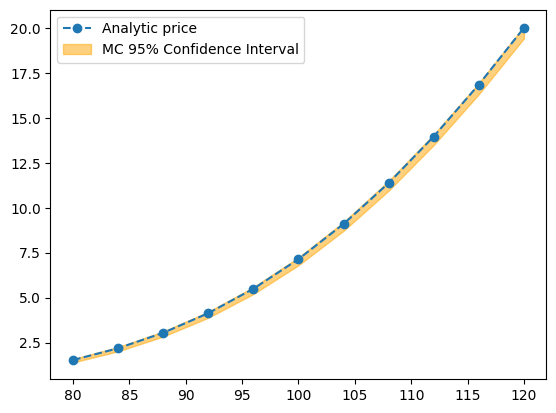
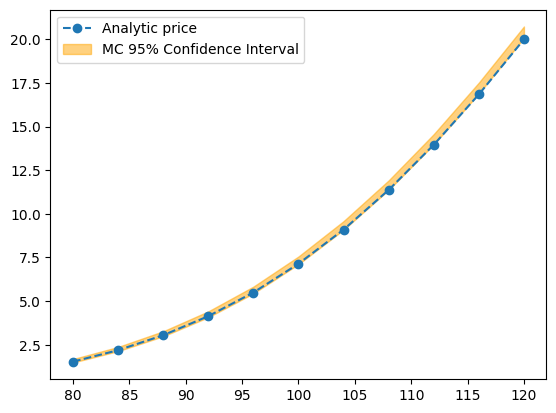
add a picture

diff --git a/_posts/2018-06-01-heston.md b/_posts/2018-06-01-heston.md
@@ -117,6 +117,19 @@ from scipy.stats import norm
 Φ = norm.cdf
 ```
 
+The `Contract` class wraps the basic ingredients of a vanilla contract -- the maturity `T`, the strike `K`, and a boolean flag to indicate whether it is a call or a put.
+
+
+```python
+@dataclass
+class Contract:
+    K: float
+    T: float
+    is_call: bool
+```
+
+The `Model` class defines a Heston model and provides the methods to price a vanilla contract with the closed-form approximation and Monte Carlo. The closed-form approximation requires the numerical integration of an indefinite integral, done using `scipy.integrate.quad_vec`, while for Monte Carlo pricing we first generate a number of paths with the Heston dynamics and then evaluate in expectation the value of the vanilla payoff at expiry (which is then discounted to time 0). 
+
 
 ```python
 @dataclass
@@ -155,7 +168,7 @@ class Model:
     def compute_forward(self, T):
         return self.S_0 * np.exp((self.r - self.q) * T)
     
-    def compute_price(self, contract):
+    def compute_price(self, contract: Contract):
         K, T = contract.K, contract.T
         a = np.log(self.S_0 / K) + (self.r-self.q) * T
         i = self.integral(a, T)
@@ -186,7 +199,7 @@ class Model:
         
         return np.vstack(S_all), np.vstack(V_all)
 
-    def compute_mc_price(self, S_T, contract):
+    def compute_mc_price(self, S_T, contract: Contract):
         df = np.exp(-self.r * contract.T)
         ω = 1.0 if contract.is_call else -1.0
         Π = df * np.maximum(ω * (S_T - contract.K), 0)
@@ -194,22 +207,15 @@ class Model:
         return mc_price, mc_std
 ```
 
-
-```python
-@dataclass
-class Contract:
-    K: float
-    T: float
-    is_call: bool
-```
+We compare the closed-form prices with the ones given by the Monte Carlo method as a check.
 
 
 ```python
 model = Model(S_0=100.0, r=0.02, q=0.01, V_0=0.04, κ=1.0, θ=0.04, ζ=0.2, ρ=-0.8)
-Ks = np.linspace(0.8 * model.S_0, 1.2 * model.S_0, 11)
+K_all = np.linspace(0.8 * model.S_0, 1.2 * model.S_0, 11)
 S_all = None
 analytic_prices, mc_lower_prices, mc_upper_prices = [], [], []
-for K in Ks:
+for K in K_all:
     contract = Contract(K, 1.0, False)
     if S_all is None:
         S_all, _ = model.generate_paths(np.linspace(0, contract.T, 201), 10_000)
@@ -217,8 +223,8 @@ for K in Ks:
     mc_price, mc_std_dev = model.compute_mc_price(S_all[-1], contract)
     mc_lower_prices.append(mc_price - 1.96 * mc_std_dev)
     mc_upper_prices.append(mc_price + 1.96 * mc_std_dev)
-plt.plot(Ks, analytic_prices, '--o', label='Analytic price')
-plt.fill_between(Ks, mc_lower_prices, mc_upper_prices, alpha=0.5, color='orange', label='MC 95% Confidence Interval')
+plt.plot(K_all, analytic_prices, '--o', label='Analytic price')
+plt.fill_between(K_all, mc_lower_prices, mc_upper_prices, alpha=0.5, color='orange', label='MC 95% Confidence Interval')
 plt.legend();
 ```
 
@@ -227,6 +233,8 @@ plt.legend();
 ![png](/assets/images/heston/heston-1.png)
     
 
+
+It is customary to quote vanilla prices using implied volatilities, that is the volatility that is required by the Black-Scholes formula in order to generate the same price. This means that we use closed-form approximation above to compute the Heston price, then with a root search algorithm we compute the implied volatility. The procedure is repeated over several strikes and maturities and gives rise to the so-called *volatility surface*.
 
 
 ```python
@@ -274,6 +282,8 @@ def compute_smile(model, T, factor=3, num_points=101):
     return Ks, σs
 ```
 
+We plot the volatility surface using a 3D plot, with strikes on the X-axis, maturities on the Y-axis, and the implied volatility itself on the Z-axis.
+
 
 ```python
 X, Y, Z, C = [], [], [], []
@@ -301,5 +311,64 @@ ax.set_title(model);
 
     
 ![png](/assets/images/heston/heston-2.png)
+    
+
+
+The picture above is nice yet a bit difficult to interpret, and often without convenient view angles can be confusing. A better way is to replace strikes with the so-called *simple delta*, defined as
+
+$$
+\delta_{simple}(K, T) = \Phi\left( \frac{\log(F / K)}{\sigma \sqrt{T}} \right),
+$$
+
+where $\Phi$ is the cumulative density function of the normal distribution, $T$ the maturity of the option, $F$ the forward at $T$, and $K$ the strike.
+By definition $\delta_{simple}$ is a number between 0 and 1 for all maturities and gives a convenient way of adimensionalize the moneyness $F/K$. One such surface is computed below.
+
+
+```python
+def compute_vol_on_delta_grid(T, d_grid, num_points):
+    F = model.compute_forward(T)
+    Ks, σs = compute_smile(model, T, factor=9, num_points=num_points)
+    ds = Φ(np.log(F / Ks) / σs / np.sqrt(T))
+    ds, σs = list(reversed(ds)), list(reversed(σs))
+    σs = np.interp(d_grid, ds, σs)
+    # remove nans at the extremes, replace them with flat interpolation
+    n = len(σs)
+    for i in range(n // 2, 0, -1):
+        if np.isnan(σs[i - 1]):
+            σs[i - 1] = σs[i]
+    for i in range(n // 2, n - 1):
+        if np.isnan(σs[i + 1]):
+            σs[i + 1] = σs[i]
+    return σs
+```
+
+
+```python
+model = Model(S_0=1.0, r=0.05, q=0.03, V_0=0.1**2, κ=0.25, θ=0.2**2, ζ=0.5, ρ=-0.5)
+d_grid = np.linspace(0.01, 0.99, 101)
+X, Y, Z = [], [], []
+T_all = [m / 52 for m in range(1, 53)]
+for T in T_all:
+    σs = compute_vol_on_delta_grid(T, d_grid, 101)
+    X.append([T] * len(σs))
+    Y.append(d_grid)
+    Z.append(σs)
+```
+
+
+```python
+fig, (ax0, ax1) = plt.subplots(figsize=(12, 5), ncols=2)
+for y, z in zip(Y, Z):
+    ax0.plot(z, y)
+ax0.set_xlabel('Implied Vol'); ax0.set_ylabel('Simple Delta')
+ax1.contour(X, Y, Z, colors='k', levels=25, alpha=0.5)
+ax1.contourf(X, Y, Z, cmap='binary', levels=25)
+ax1.set_xlabel('T'); ax1.set_ylabel('Simple Delta')
+fig.tight_layout()
+```
+
+
+    
+![png](/assets/images/heston/heston-3.png)
     
 
